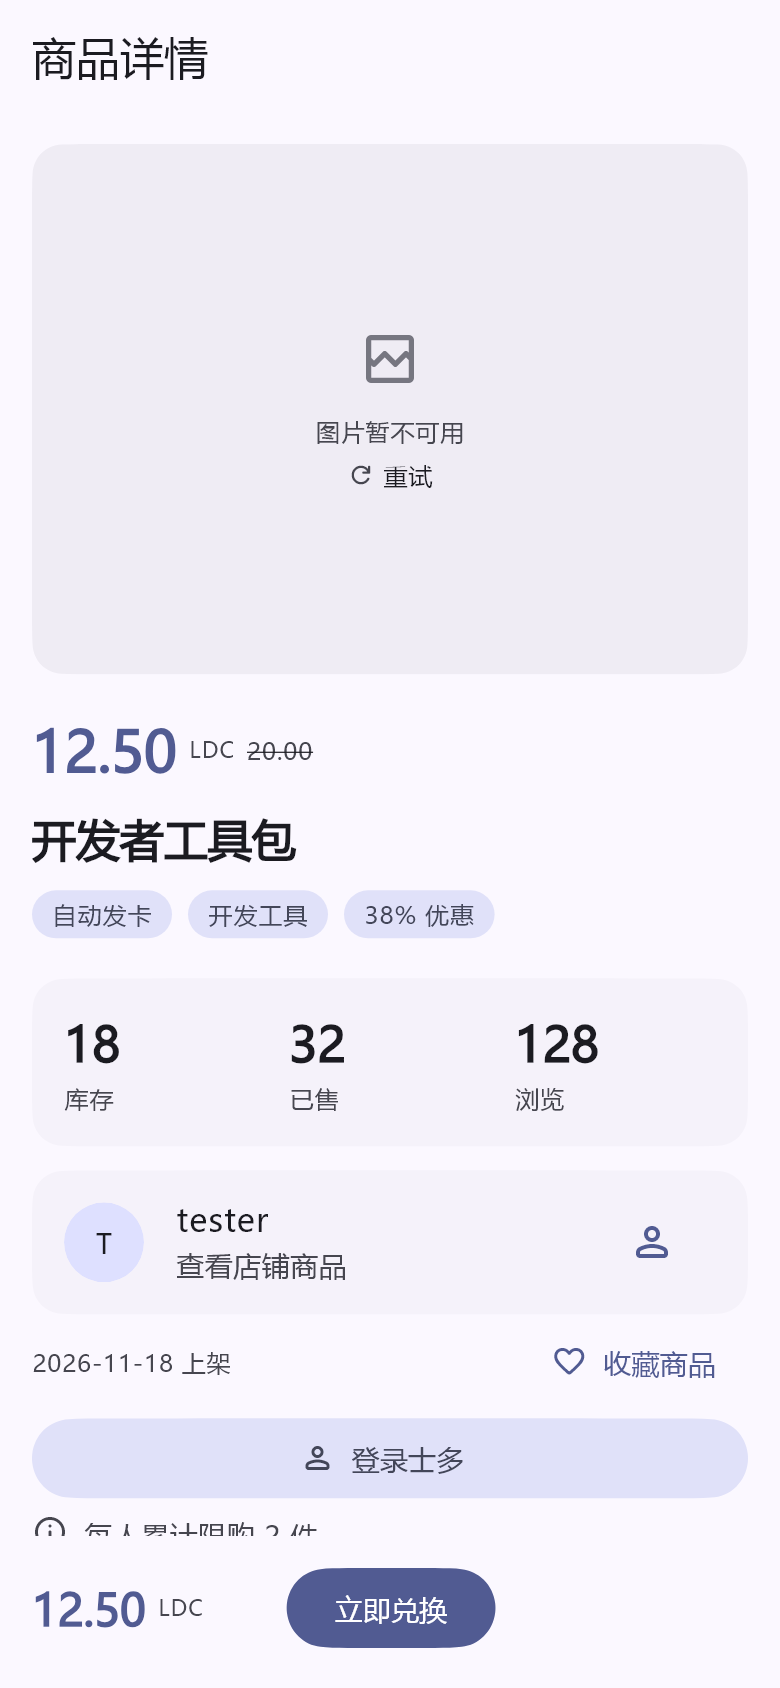
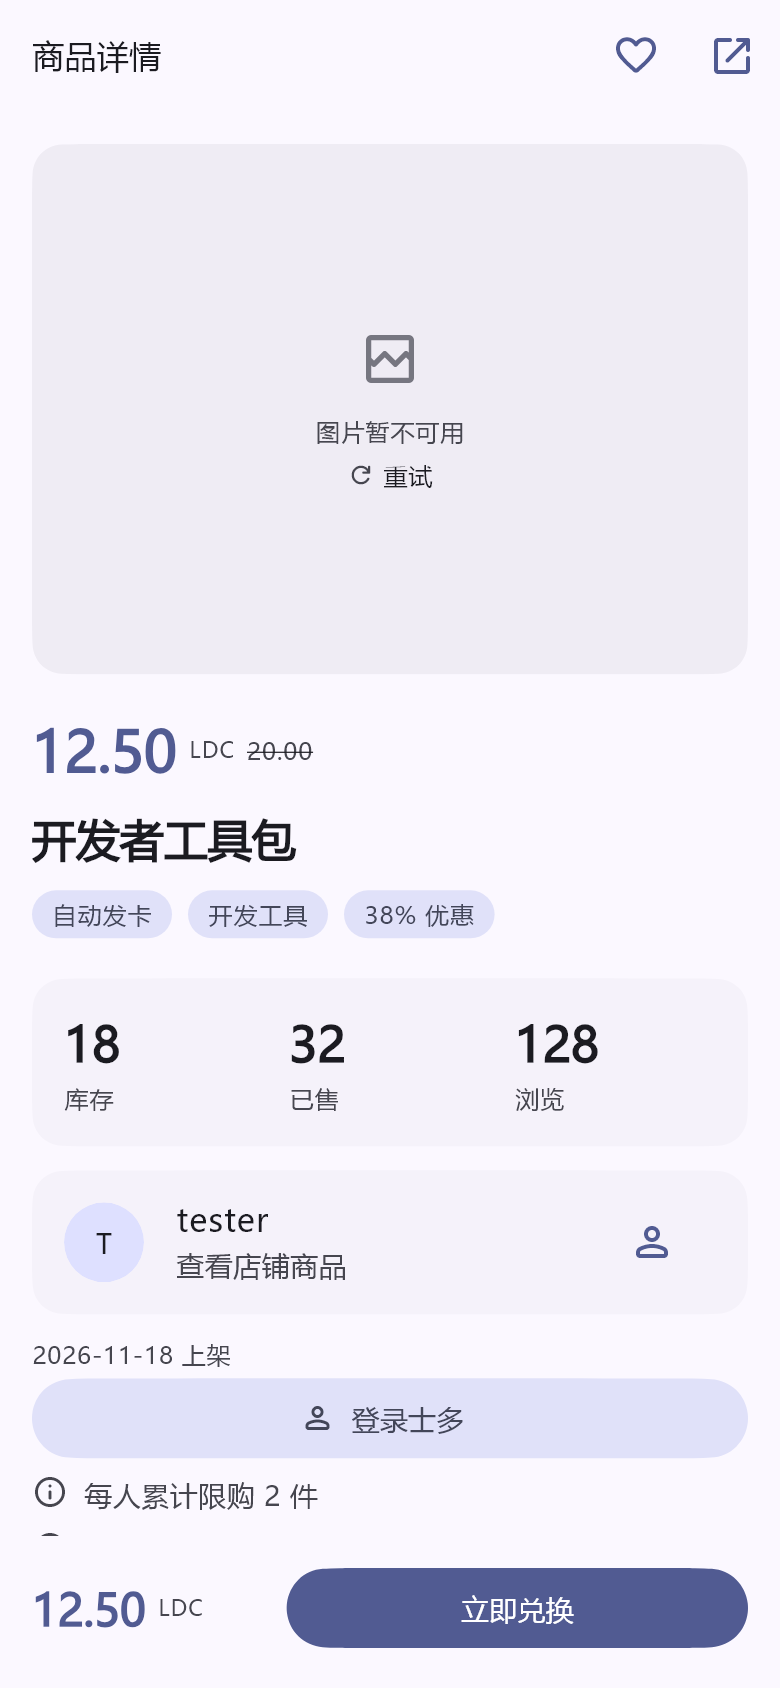
✨ 发布士多 2.4.0 标题栏操作与紧凑商品卡片

diff --git a/plugins/ld-store/main.js b/plugins/ld-store/main.js
@@ -524,7 +524,7 @@ function productView(raw) {
   const type=p.productType || p.type || 'normal';
   return {id:display(p.id),title:display(p.name),image:display(p.imageUrl),
     price:money(value),value:Number.isFinite(value) ? value.toFixed(2) : '—',original,
-    discount:original ? Math.round((1-value/base)*100)+'% 优惠' : '',
+    discount:original ? Math.round((1-value/base)*100)+'% 优惠' : '',originalLabel:original ? '原价 '+original : '',
     type, typeLabel:({cdk:'自动发卡',normal:flag(p.autoDelivery) ? '自动发货' : '手动发货',link:'外链商品',store:'小店'})[type] || '商品',
     typeIcon:({cdk:'key',normal:'gift',link:'link',store:'storefront'})[type] || 'gift',
     category:display(p.categoryName), stock:'库存 '+stockLabel(p),sold:'已售 '+display(p.soldCount ?? 0),
@@ -621,7 +621,7 @@ async function detail(ctx) {
     if (!p || p.id == null || String(p.id) !== String(ctx.params.id)) throw Error('找不到这件商品');
     s.id = String(p.id);
     s.favorited = p.isFavorited === true;
-    write(ctx,{favoriteLabel:s.favorited ? '已收藏' : '收藏商品',buyerError:''});
+    write(ctx,{favorited:s.favorited,favoriteLabel:s.favorited ? '已收藏' : '收藏商品',buyerError:''});
     s.product=p;
     s.linkProduct = ['link','store'].includes(p.productType || p.type);
     ctx.setData('linkProduct',s.linkProduct);
@@ -841,7 +841,7 @@ function showOrderFilters(ctx) {
   ctx.setData('orderFilters',orderFilters.map(filter => ({...filter,selected:filter.status === status})));
 }
 async function loadOverview(ctx) {
-  write(ctx,{refundHint:"",couponHint:"",accountName:""});
+  write(ctx,{refundHint:'',couponHint:'',accountName:'',overviewLoading:true,overviewError:''});
   const s=market(ctx);
   const revision=s ? s.overviewRevision=(s.overviewRevision || 0)+1 : 0;
   const current=()=>!s || (market(ctx)===s && s.overviewRevision===revision);
@@ -863,7 +863,8 @@ async function loadOverview(ctx) {
       ctx.setData('stats',[{label:'在售商品',value:display(data.products?.online ?? '—')},{label:'今日订单',value:display(data.orders?.today ?? '—')},{label:'店铺',value:display(data.stores ?? '—')}]);
     }
     ctx.setData('overviewError','');
-  } catch (_) {if(current())write(ctx,{stats:[],overviewError:'暂时无法更新统计，仍可进入浏览'});}
+  } catch (_) {if(current())write(ctx,{overviewError:'暂时无法更新统计，仍可进入浏览'});}
+  finally {if(current())ctx.setData('overviewLoading',false);}
 }
 fluxdo.on('card.load',ctx=>{views.set(ctx.surface,{ctx,seq:0,visibility:0});syncNotifications();return loadOverview(ctx);});
 fluxdo.on('card.hide',ctx=>{const s=market(ctx);if(s)s.hidden=true;return syncNotifications();});
@@ -1357,7 +1358,7 @@ fluxdo.on('favorite',ctx=>buyerAction(ctx,async s=>{
   if (!(await ldStore.status()).authorized) {ctx.setData('authorized',false);throw Error('请先登录士多');}
   await buyerRequest(ctx, '/products/'+encodeURIComponent(ctx.params.id)+'/favorite',s.favorited ? 'DELETE' : 'POST');
   s.favorited=!s.favorited;invalidateViews(s);
-  write(ctx,{favoriteLabel:s.favorited ? '已收藏' : '收藏商品'});
+  write(ctx,{favorited:s.favorited,favoriteLabel:s.favorited ? '已收藏' : '收藏商品'});
 }));
 fluxdo.on('comment',ctx=>fluxdo.navigate('comment',{id:ctx.params.id}));
 fluxdo.on('postComment',(ctx,a)=>buyerAction(ctx,async s=>{
